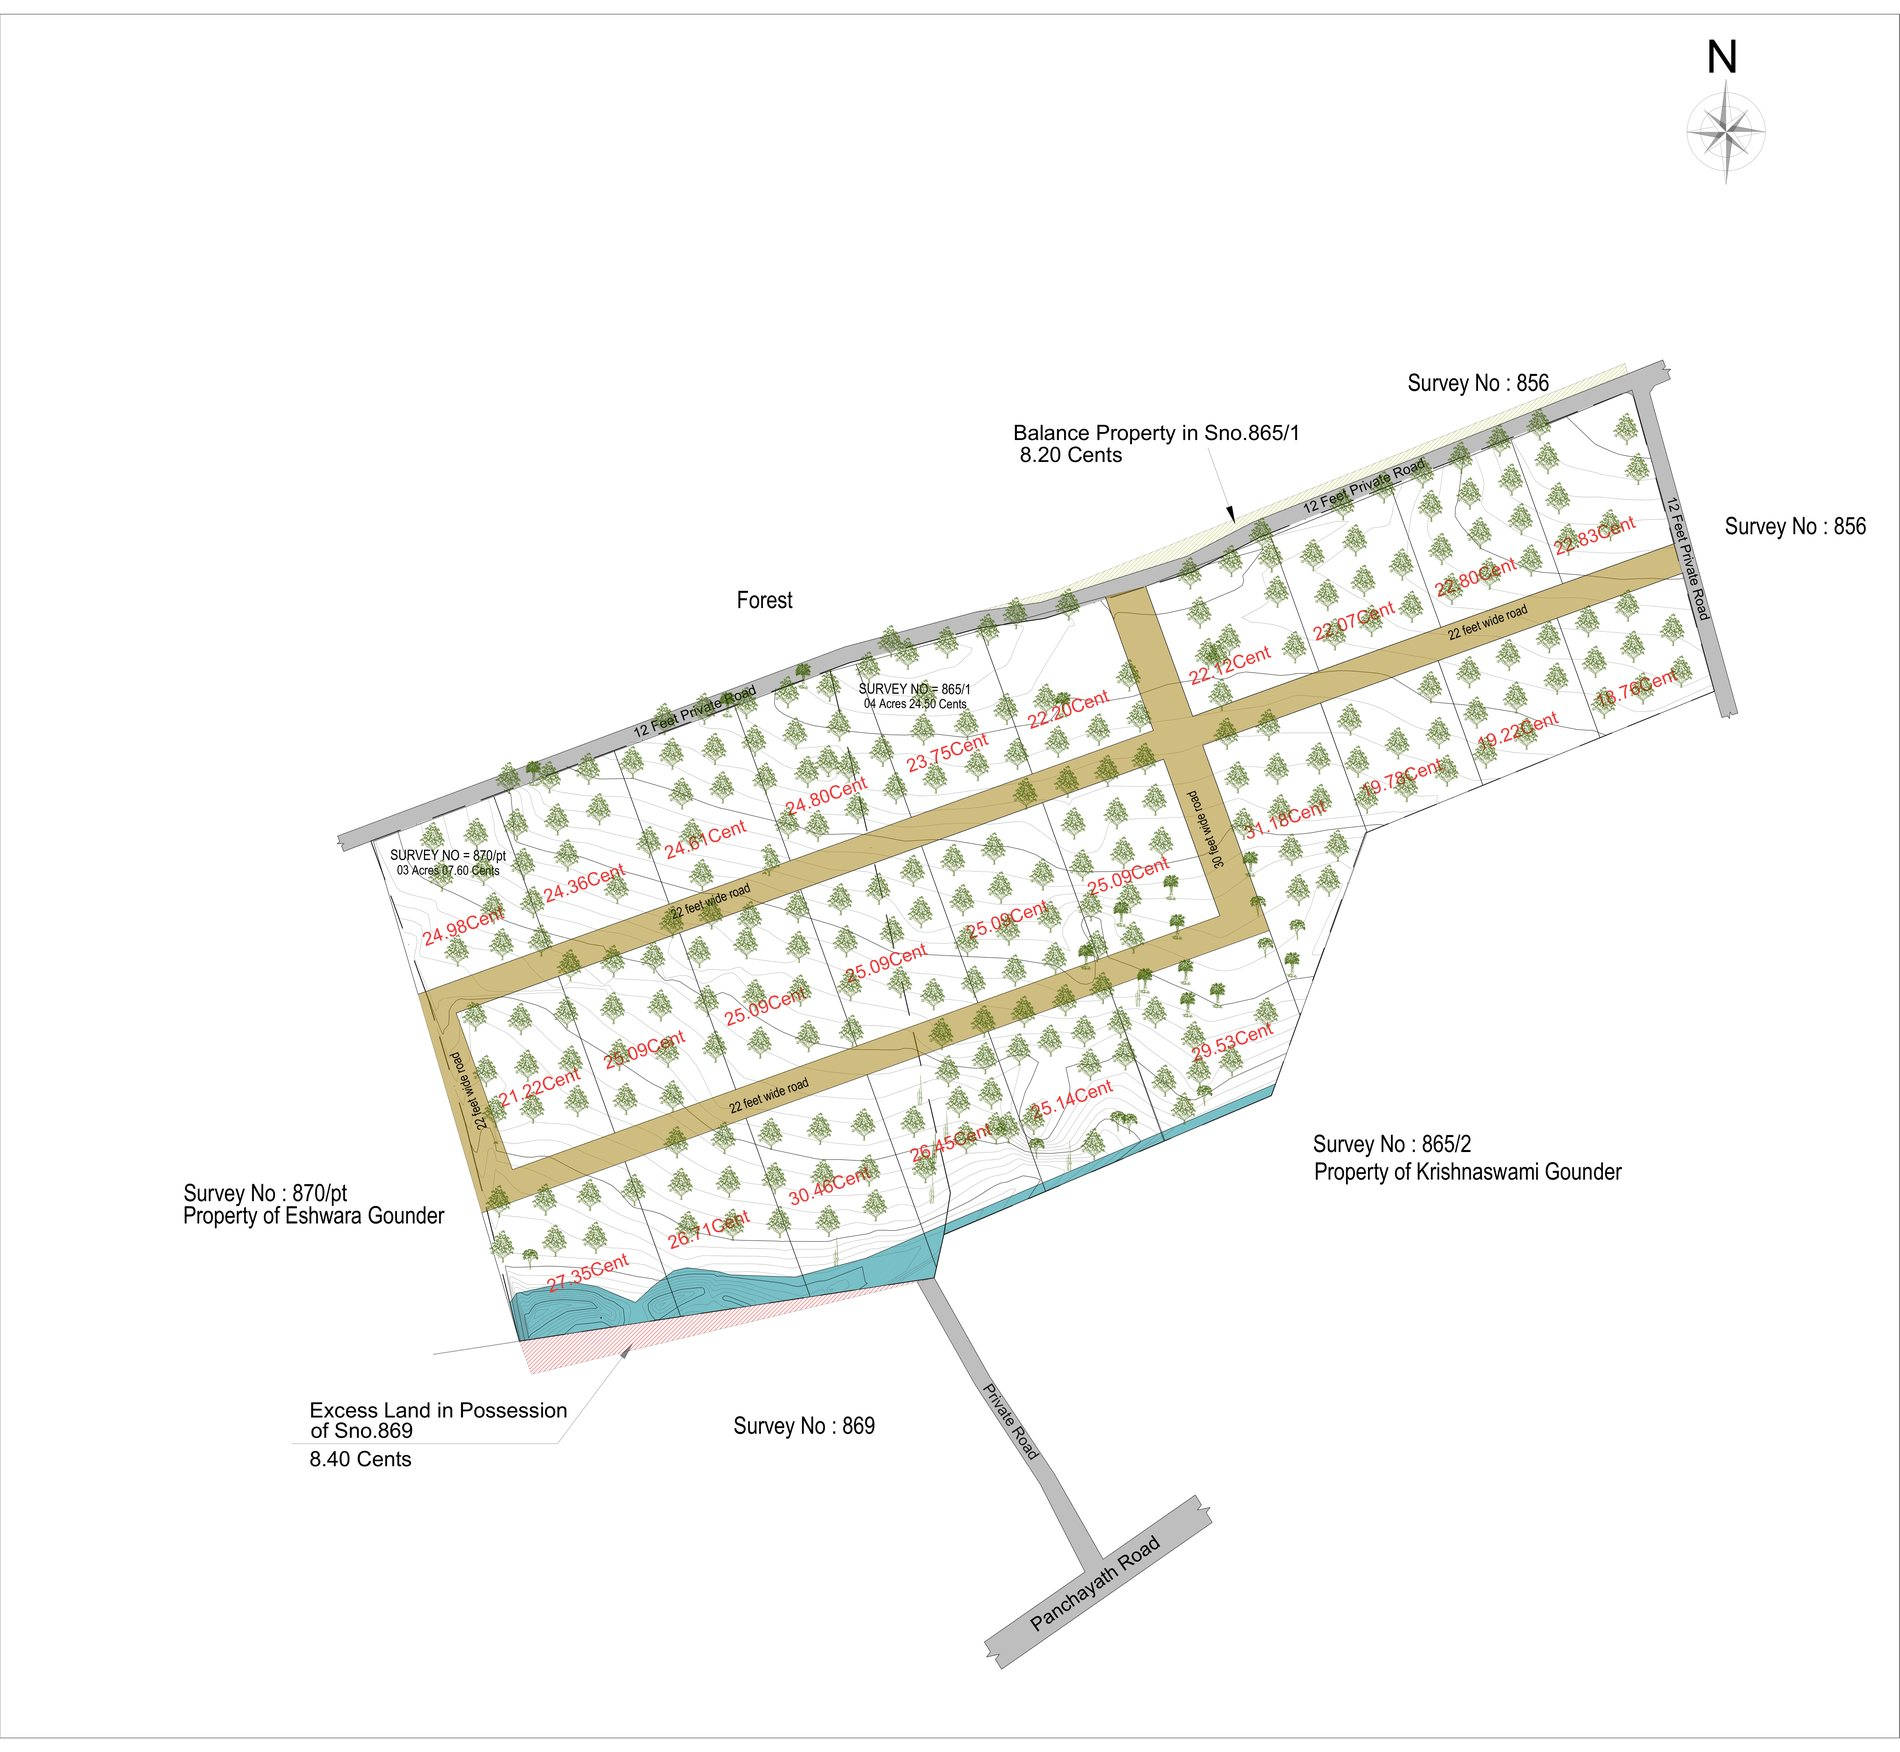
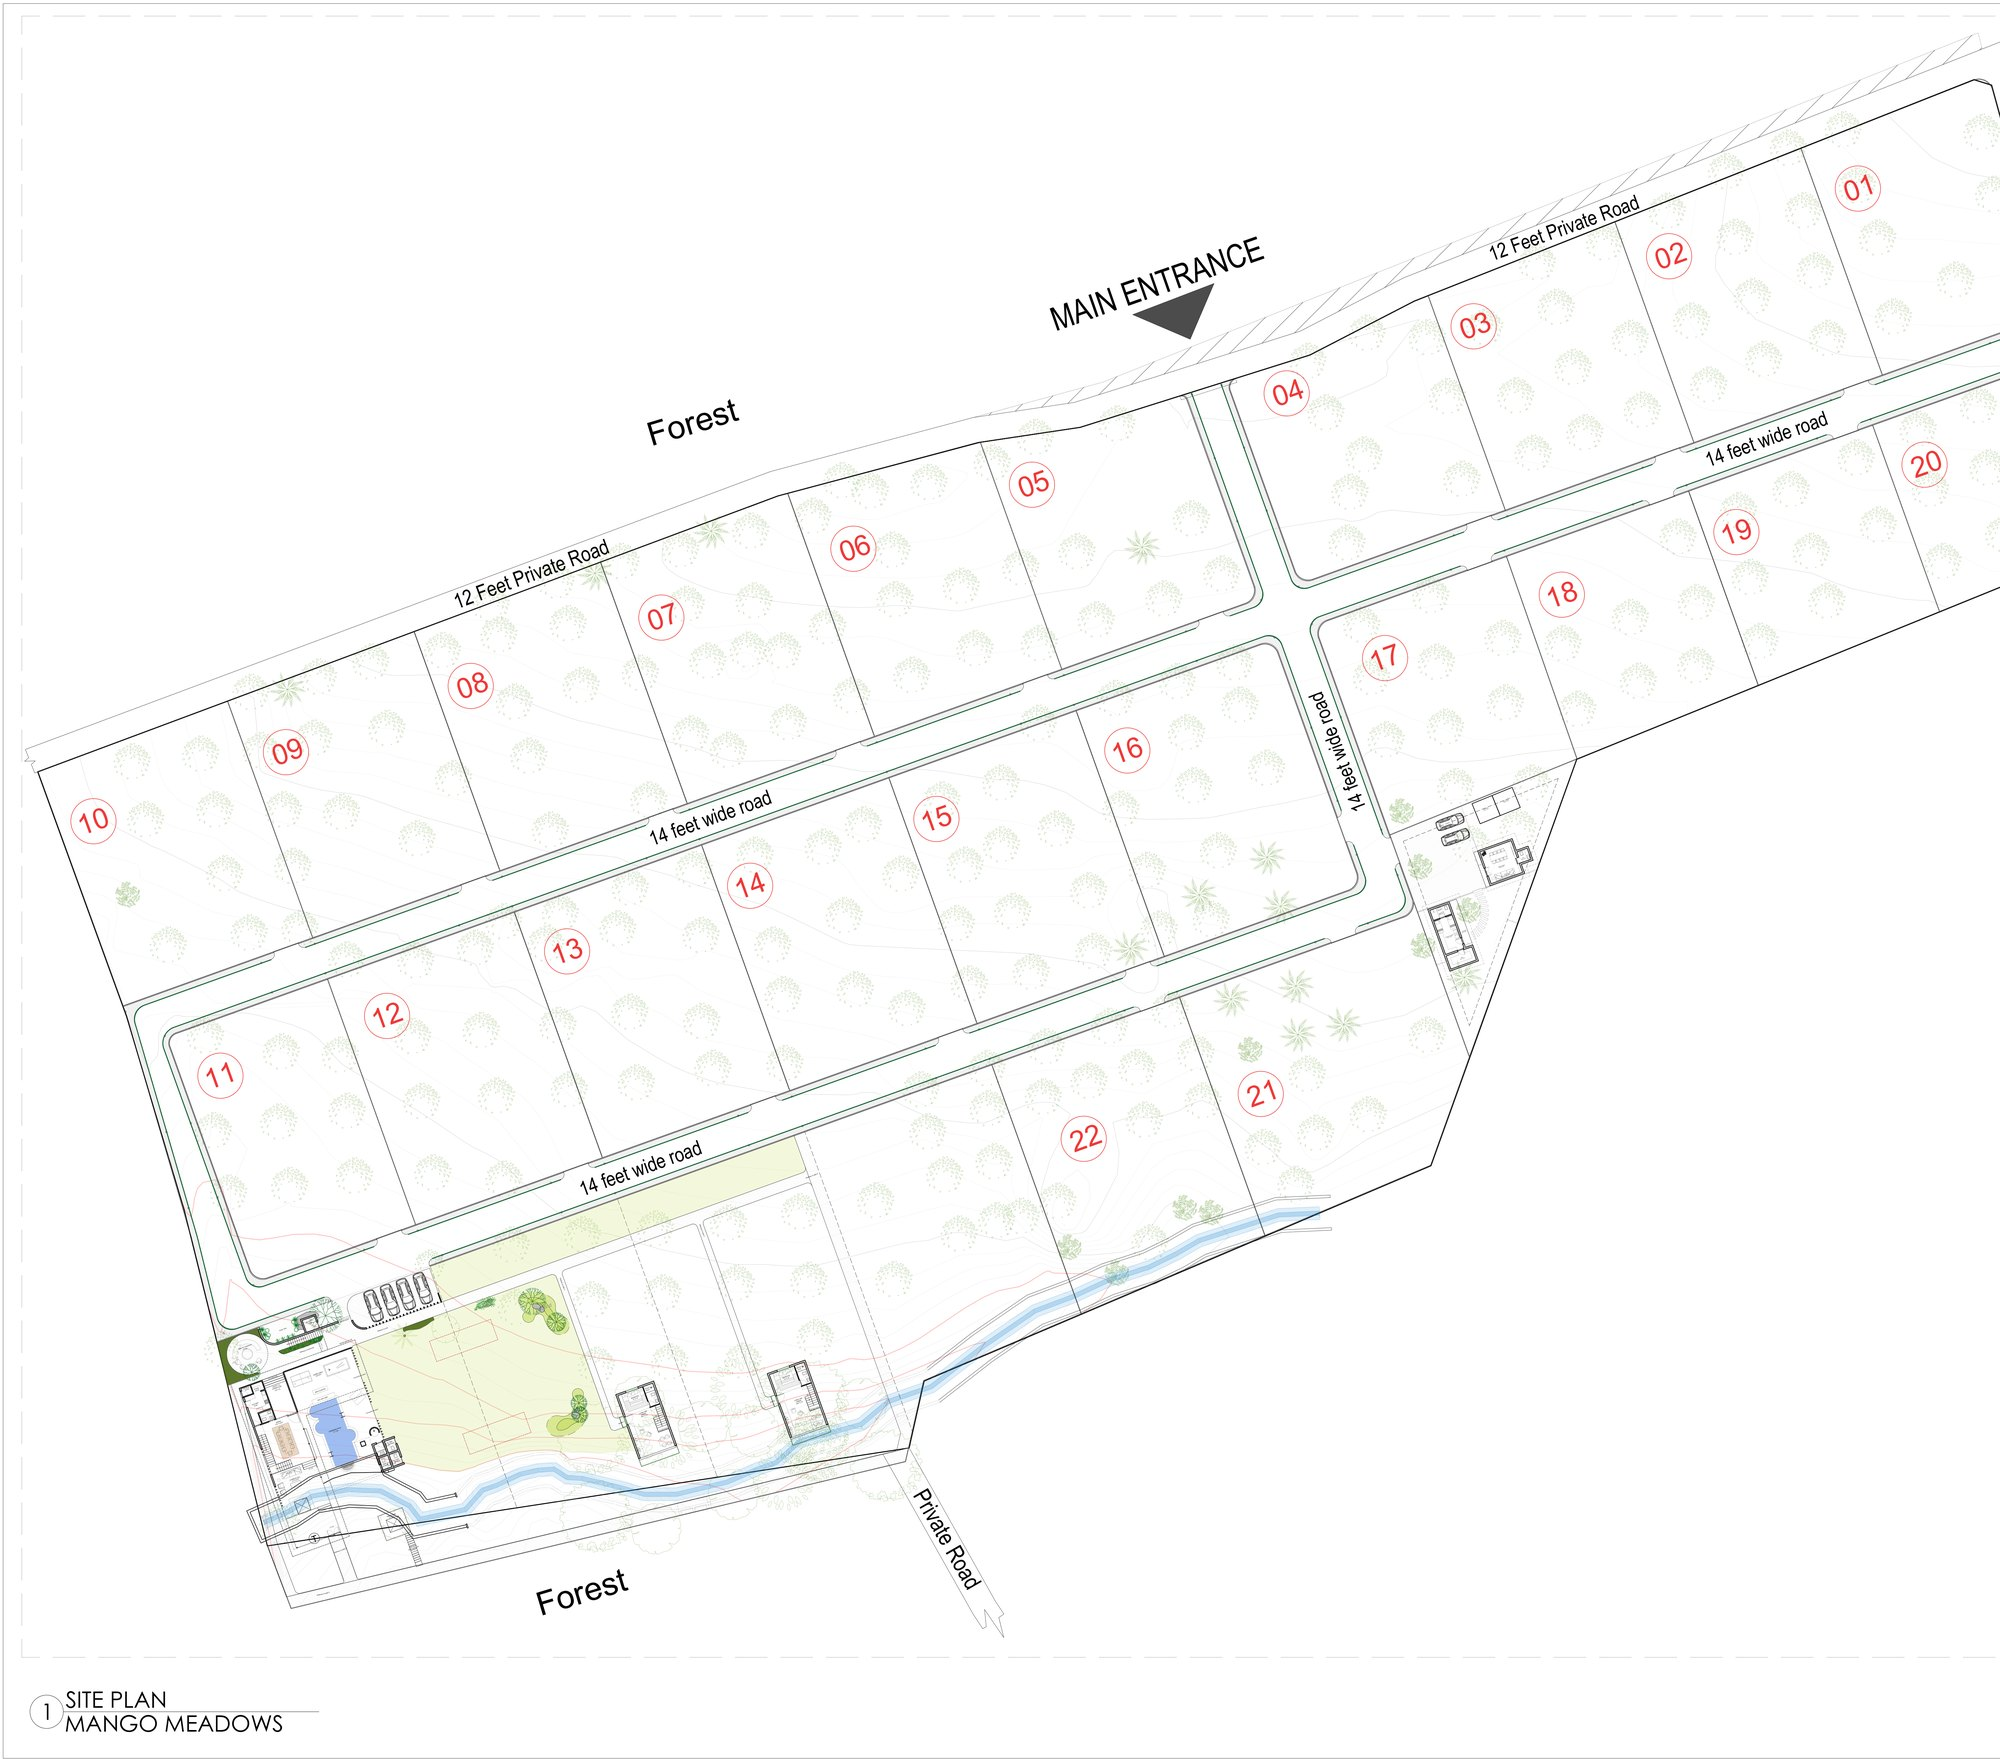
Update site plan to revised sitemap; faster scrolling
- Replaced assets/masterplan.jpg with the updated architect's site plan
  (numbered plots 01-22, marked main entrance, roads, forest, stream and
  amenity cluster), extracted from the revised sitemap PDF with the title
  block cropped off. The Architect's-plan toggle now contains the whole
  drawing centered within the map viewport.
- Scrolling is snappier everywhere (Projects, Portal, What's New and the
  rest): Lenis tuned to duration 0.6 with wheelMultiplier 1.6 and
  touchMultiplier 2.2, cubic ease-out.

Claude-Session: https://claude.ai/code/session_01X5gwUBDgxJixivFbuAf9M7

diff --git a/js/main.js b/js/main.js
@@ -166,9 +166,13 @@ async function initMotion() {
 
   gsap.registerPlugin(ScrollTrigger);
 
-  // Lenis smooth scroll, calm and slow
+  // Lenis smooth scroll — faster/snappier across all pages
   if (window.Lenis) {
-    const lenis = new Lenis({ duration: 0.85, smoothWheel: true });
+    const lenis = new Lenis({
+      duration: 0.6, smoothWheel: true,
+      wheelMultiplier: 1.6, touchMultiplier: 2.2,
+      easing: t => 1 - Math.pow(1 - t, 3),
+    });
     lenis.on('scroll', ScrollTrigger.update);
     gsap.ticker.add(t => lenis.raf(t * 1000));
     gsap.ticker.lagSmoothing(0);

diff --git a/js/plots.js b/js/plots.js
@@ -93,9 +93,9 @@
 
     // Real architect's site plan (lazy: href set on first Site-Plan toggle).
     // Sits at the back of the viewport so it pans/zooms with the controls.
-    const spW = 1000, spH = Math.round(1000 * 1752 / 1900);
+    // 'meet' contains the whole drawing within the viewBox, centered.
     el('image', {
-      id: 'mp-siteplan', x: 0, y: (660 - spH) / 2, width: spW, height: spH,
+      id: 'mp-siteplan', x: 0, y: 0, width: 1000, height: 660,
       preserveAspectRatio: 'xMidYMid meet',
     }, viewport);
 
